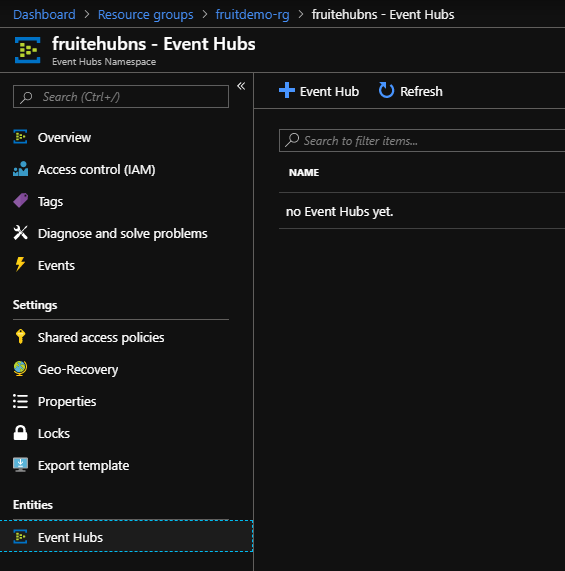
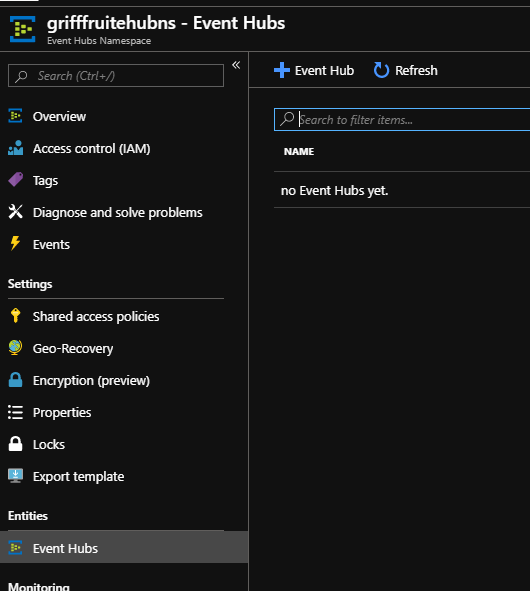
done most of create event hub namespace

diff --git a/Griffless/Instructions/04_CreateEventHub/CreateEventHub.md b/Griffless/Instructions/04_CreateEventHub/CreateEventHub.md
@@ -9,12 +9,12 @@ You might want to create the event hub using the portal the first time you do it
 
 1. Navigate to the [Azure Portal](https://portal.azure.com). 
 
-2. Create a new eventhub namespace called fruitehubns.
+2. Create a new eventhub namespace called {yourname}fruitehubns. Event hub namespaces are unique across Azure hence the need to prefix with your name.
   i. Click the green plus and search for event hub. 
 
 ![Fruit Eventhub Namespace ](Images/FruitEventhubNamespace.PNG)
 
-   ii. Name it fruitehubns, use your appropriate subscription, use the resource group fruitdemo-rg, create it in the West Europe region and basic pricing tier. 
+   ii. Name it fruitehubns, use your appropriate subscription, use the resource group fruitdemo-rg, create it in the North Europe region and basic pricing tier. **It is important to create in the same region as where the data is going to be held where possible to reduce egress charges.**
 ![Fruit Eventhub Namespace Detail](Images/FruitEventhubNamespaceDetail.PNG)
 
 3. Navigate to your newly created eventhub namespace, click event hubs and add an event hub.
@@ -44,7 +44,7 @@ You might want to create the event hub using the portal the first time you do it
   "contentVersion": "1.0.0.0",
   "parameters": {
     "eventhubnamespace": {
-      "value": "fruitehubns"
+      "value": "grifffruitehubns"
     },
     "eventhub": {
       "value": "fruitehub"
@@ -53,7 +53,7 @@ You might want to create the event hub using the portal the first time you do it
       "value": "fruitsas"
     },
     "eventhublocation": {
-      "value": "West Europe"
+      "value": "North Europe"
     }
   }
 }
@@ -68,7 +68,7 @@ You might want to create the event hub using the portal the first time you do it
   "parameters": {
 
     "eventhubnamespace": {
-      "defaultValue": "fruitehubns",
+      "defaultValue": "grifffruitehubns",
       "type": "string"
     },
     "eventhub": {
@@ -85,7 +85,7 @@ You might want to create the event hub using the portal the first time you do it
         "North Europe",
         "West Europe"
       ],
-      "defaultValue": "West Europe",
+      "defaultValue": "North Europe",
       "metadata": {
         "description": "The location in which the resources will be created."
       }
